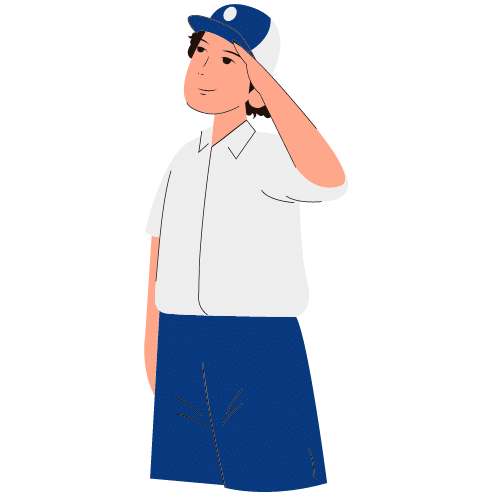
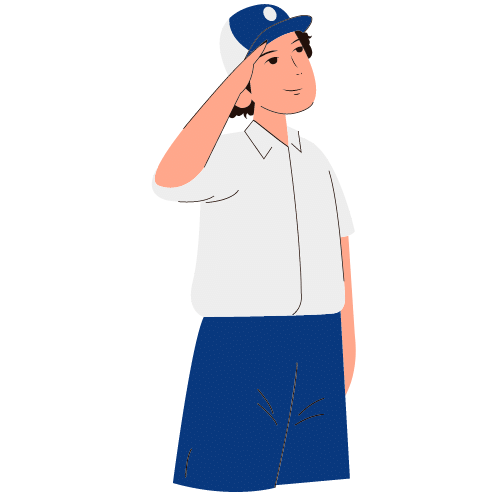
feat: change direction

diff --git a/index.html b/index.html
@@ -9,14 +9,15 @@
 <body>
   <div class="background">
     <div class="flag-pole" id="flag-pole">
-      <div class="pole"></div>
       <div class="flag-wrapper">
         <div class="flag" id="flag">
           <div class="flag-element-wrapper" id="flag-element-wrapper">
             <div class="flag-element"></div>
           </div>
+          <!-- <img src="assets/indonesia-flag.gif" /> -->
         </div>
       </div>
+      <div class="pole"></div>
     </div>
     <div class="button-wrapper" id="button-wrapper">
       <button type="button" onclick="handleClickStartButton()" class="play-button">Mulai Upacara</button>
@@ -28,16 +29,16 @@
           <p class="typewriter">Kepada bendera merah putih.</p>
           <p class="typewriter">Hormaaaaaat... Grakk!</p>
         </div>
-        <div class="character-wrapper" style="right: 10%;">
+        <div class="character-wrapper" style="left: 10%;">
           <img src="assets/bocil.png" alt="bocil" class="character">
         </div>
-        <div class="character-wrapper" style="right: calc(0% - 150px);">
+        <div class="character-wrapper" style="left: calc(0% - 150px);">
           <img src="assets/bocil-sd.png" alt="bocil" class="character">
         </div>
-        <div class="character-wrapper" style="right: calc(0% - 100px);">
+        <div class="character-wrapper" style="left: calc(0% - 100px);">
           <img src="assets/bocil-smp.png" alt="bocil" class="character">
         </div>
-        <div class="character-wrapper" style="right: calc(0% - 50px);">
+        <div class="character-wrapper" style="left: calc(0% - 50px);">
           <img src="assets/bocil-sma.png" alt="bocil" class="character">
         </div>
       </div>

diff --git a/index.js b/index.js
@@ -12,7 +12,7 @@ const audio = document.getElementById('audio');
 for(let i = 0; i < width; i += 1) {
   const element = document.createElement('div');
   element.classList.add('flag-element');
-  element.style.animationDelay = `${i * 5}ms`;
+  element.style.animationDelay = `${i * 1}ms`;
   flagElementWrapper.appendChild(element);
 }
 
@@ -41,13 +41,11 @@ const handleClickStartButton = () => {
   buttonWrapper.style.bottom = '-10%';
   buttonWrapper.style.transition = `bottom 1s`;
 
-  flagPoleElement.style.left = '0%';
-  flagPoleElement.style.transition = `left 1s`;
+  flagPoleElement.style.right = '0%';
+  flagPoleElement.style.transition = `right 1s`;
 
-  charactersElement.style.right = '0%';
-  charactersElement.style.transition = `right 1s`;
-
-
+  charactersElement.style.left = '0%';
+  charactersElement.style.transition = `left 1s`;
 
   setTimeout(() => {
     chatBubbleElement.style.opacity = '1';

diff --git a/index.css b/index.css
@@ -20,7 +20,7 @@ body {
   flex: 1;
   margin-top: 32px;
   position: relative;
-  left: -100%;
+  right: -100%;
 }
 
 .pole {
@@ -84,7 +84,7 @@ body {
   width: 100%;
   bottom: -50px;
   height: 400px;
-  right: -100%;
+  left: -100%;
 }
 
 .character-wrapper {
